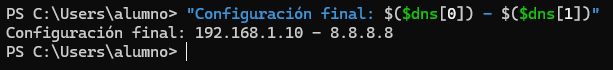
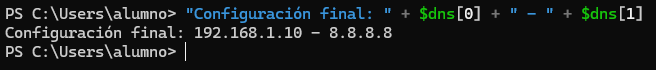
pr0604

Changed region(s): [[0.0, 0.0857, 0.9918, 0.3429], [0.0, 0.3429, 0.6509, 0.6], [0.0, 0.6, 0.31, 0.8571]]

diff --git a/ut06/pr0604/pr0604.md b/ut06/pr0604/pr0604.md
@@ -5,14 +5,14 @@
 ### 📌 1. Reconfiguración de DNS y Verificación
 **Paso 1:**
 ```powershell
-$dns = @("192.168.1.10", "10.0.0.50")
+$dns = "192.168.1.10", "10.0.0.50"
 ```
 
 > 💬 El primero se encuentra en la posición 0 y el segundo en la posición 1.
 
 **Paso 2:**
 ```powershell
-"Configuración actual: $($dns[0]) - $($dns[1])"
+"Configuración actual: " + $dns[0] + " - " + $dns[1]
 ```
 
 ![Configuración DNS](Imagenes/Ej1-2.png)
@@ -24,14 +24,14 @@ $dns[1] = "8.8.8.8"
 
 **Paso 4:**
 ```powershell
-"Total de servidores DNS: $($dns.Count)"
+$dns.Length
 ```
 
 ![](Imagenes/Ej1-4.png)
 
 **Paso 5:**
 ```powershell
-"Configuración final: $($dns[0]) - $($dns[1])"
+"Configuración final: " + $dns[0] + " - " + $dns[1]
 ```
 
 ![](Imagenes/Ej1-5.png)
@@ -39,7 +39,7 @@ $dns[1] = "8.8.8.8"
 ### 📌 2. Rotación de logs de backups (LIFO - Last In, First Out)
 **Paso 1:**
 ```powershell
-$backups = @("Backup_Lunes.zip", "Backup_Martes.zip", "Backup_Miercoles.zip")
+$backups = "Backup_Lunes.zip", "Backup_Martes.zip", "Backup_Miercoles.zip"
 ```
 
 ![](Imagenes)
